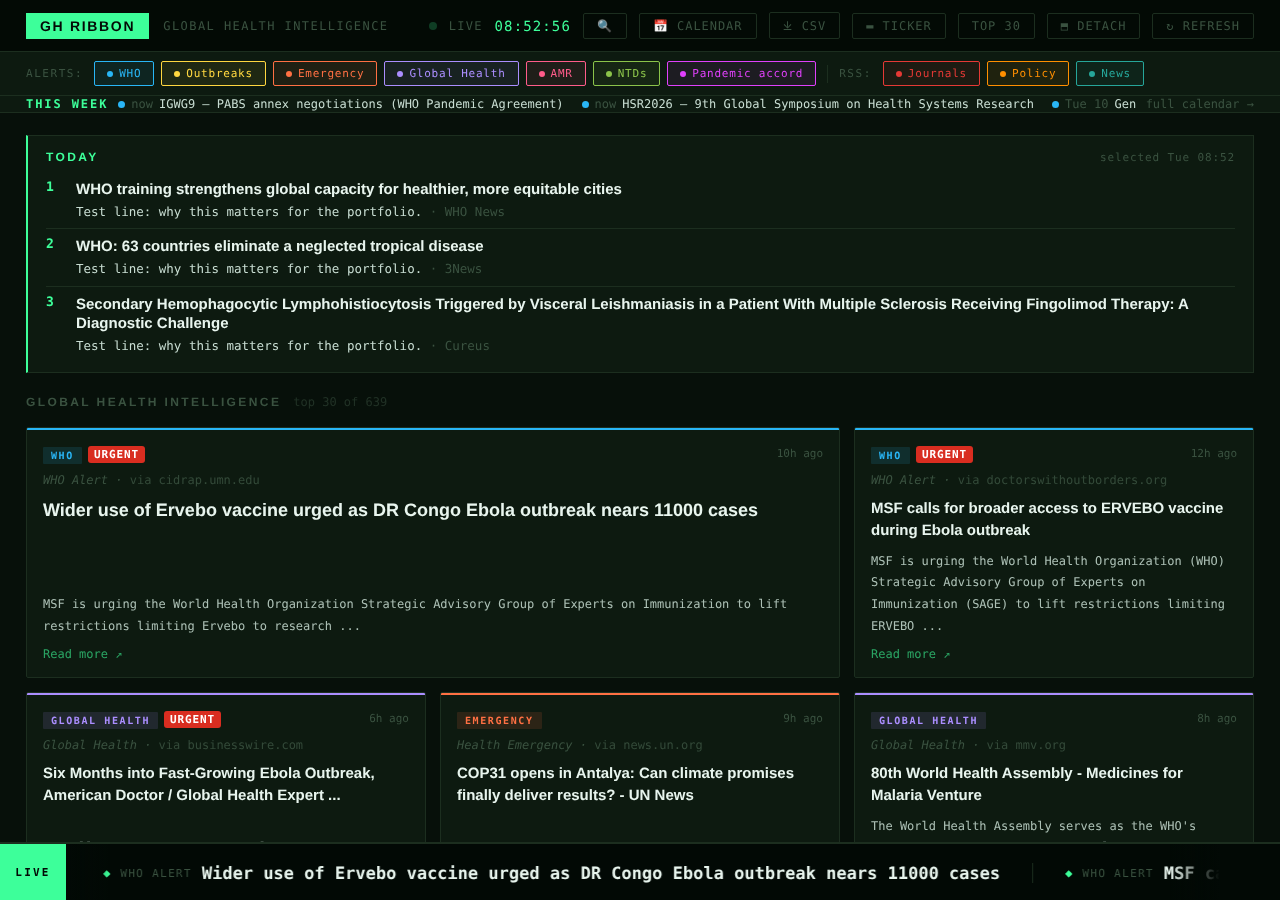
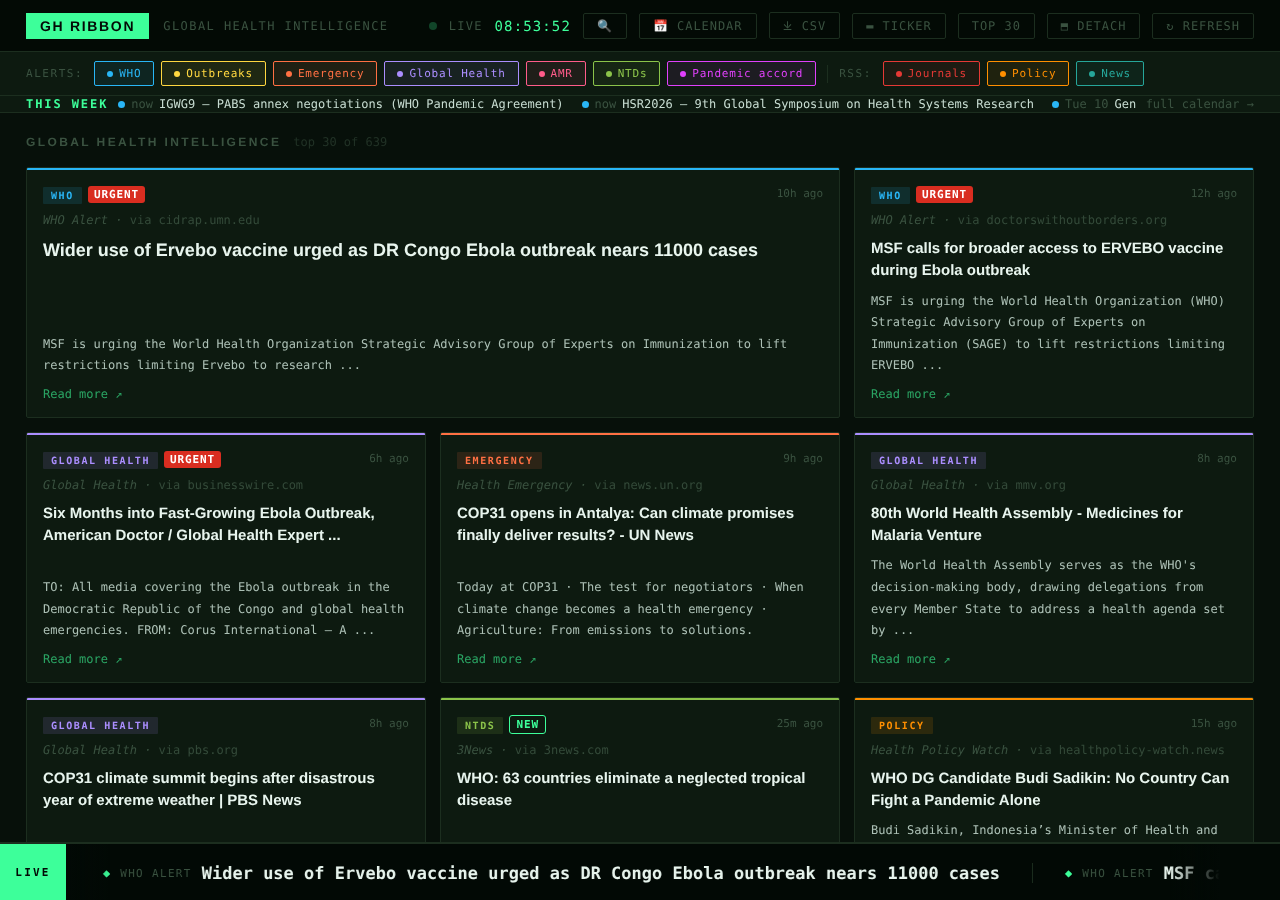
Agenda: toont 'checked'-datum per evenement als die er is
Claude-Session: https://claude.ai/code/session_01NjBjLFMcas8sT67qUEDFjo

Changed region(s): [[0.0312, 0.1556, 0.9688, 0.9333], [0.5, 0.3733, 0.5625, 0.4044], [0.9375, 0.1867, 0.9688, 0.2178]]

diff --git a/world-calendar/index.html b/world-calendar/index.html
@@ -145,6 +145,7 @@ main { max-width: 860px; margin: 0 auto; padding: 20px 16px 60px; }
 .ev .rel a { color: var(--text); border-bottom: 0; font-size: 12.5px; }
 .ev .rel a:hover { color: var(--accent); }
 .rel .src { color: var(--muted); font-size: 11px; }
+.ev .checked { color: var(--muted); font-size: 11px; }
 .rel span { min-width: 0; overflow-wrap: anywhere; }
 .ev > div { min-width: 0; }
 footer { color: var(--muted); font-size: 12px; border-top: 1px solid var(--border); padding-top: 14px; margin-top: 30px; }
@@ -386,7 +387,7 @@ function render() {
           ${e.note ? `<div class="note">${esc(e.note)}</div>` : ''}
           ${related.has(e) ? `<ul class="rel" aria-label="Related news">${related.get(e).map(it =>
             `<li><span><a href="${esc(veiligeUrl(it.url))}" target="_blank" rel="noopener noreferrer nofollow">${esc(it.title)}</a> <span class="src">${esc(it.src || '')}</span></span></li>`).join('')}</ul>` : ''}
-          ${e.src ? `<a href="${esc(e.src)}" target="_blank" rel="noopener">source ↗</a>` : ''}
+          ${e.src ? `<a href="${esc(veiligeUrl(e.src))}" target="_blank" rel="noopener">source ↗</a>` : ''}${e.checked ? ` <span class="checked" title="Date last verified against the source">· checked ${fmtDay(d(e.checked))}</span>` : ''}
         </div>
       </article>`;
     }).join('')}
